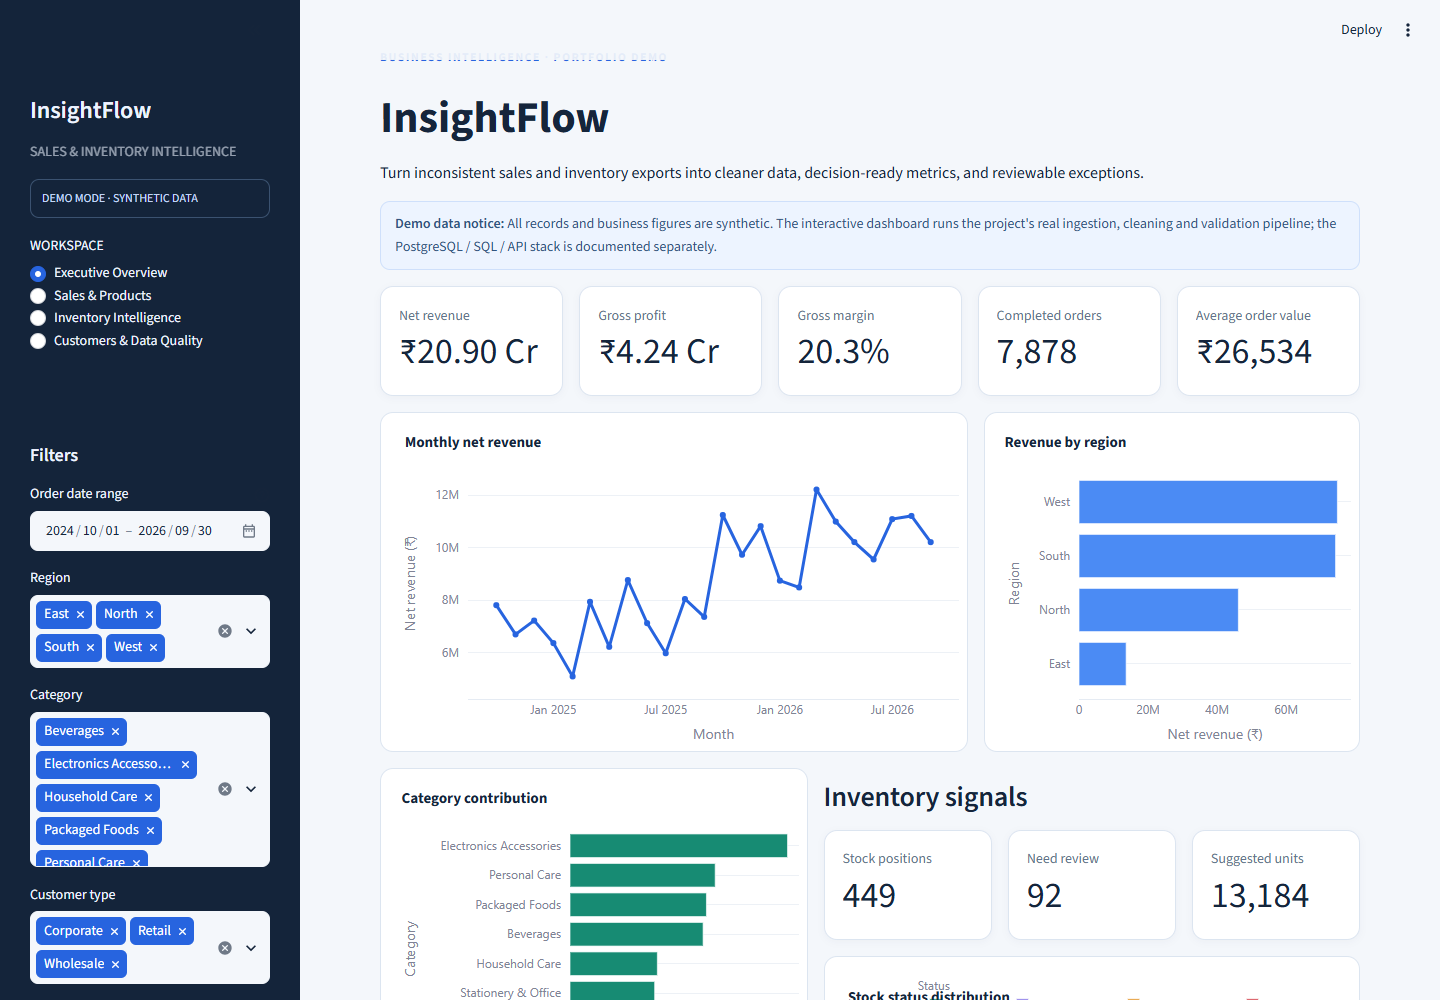
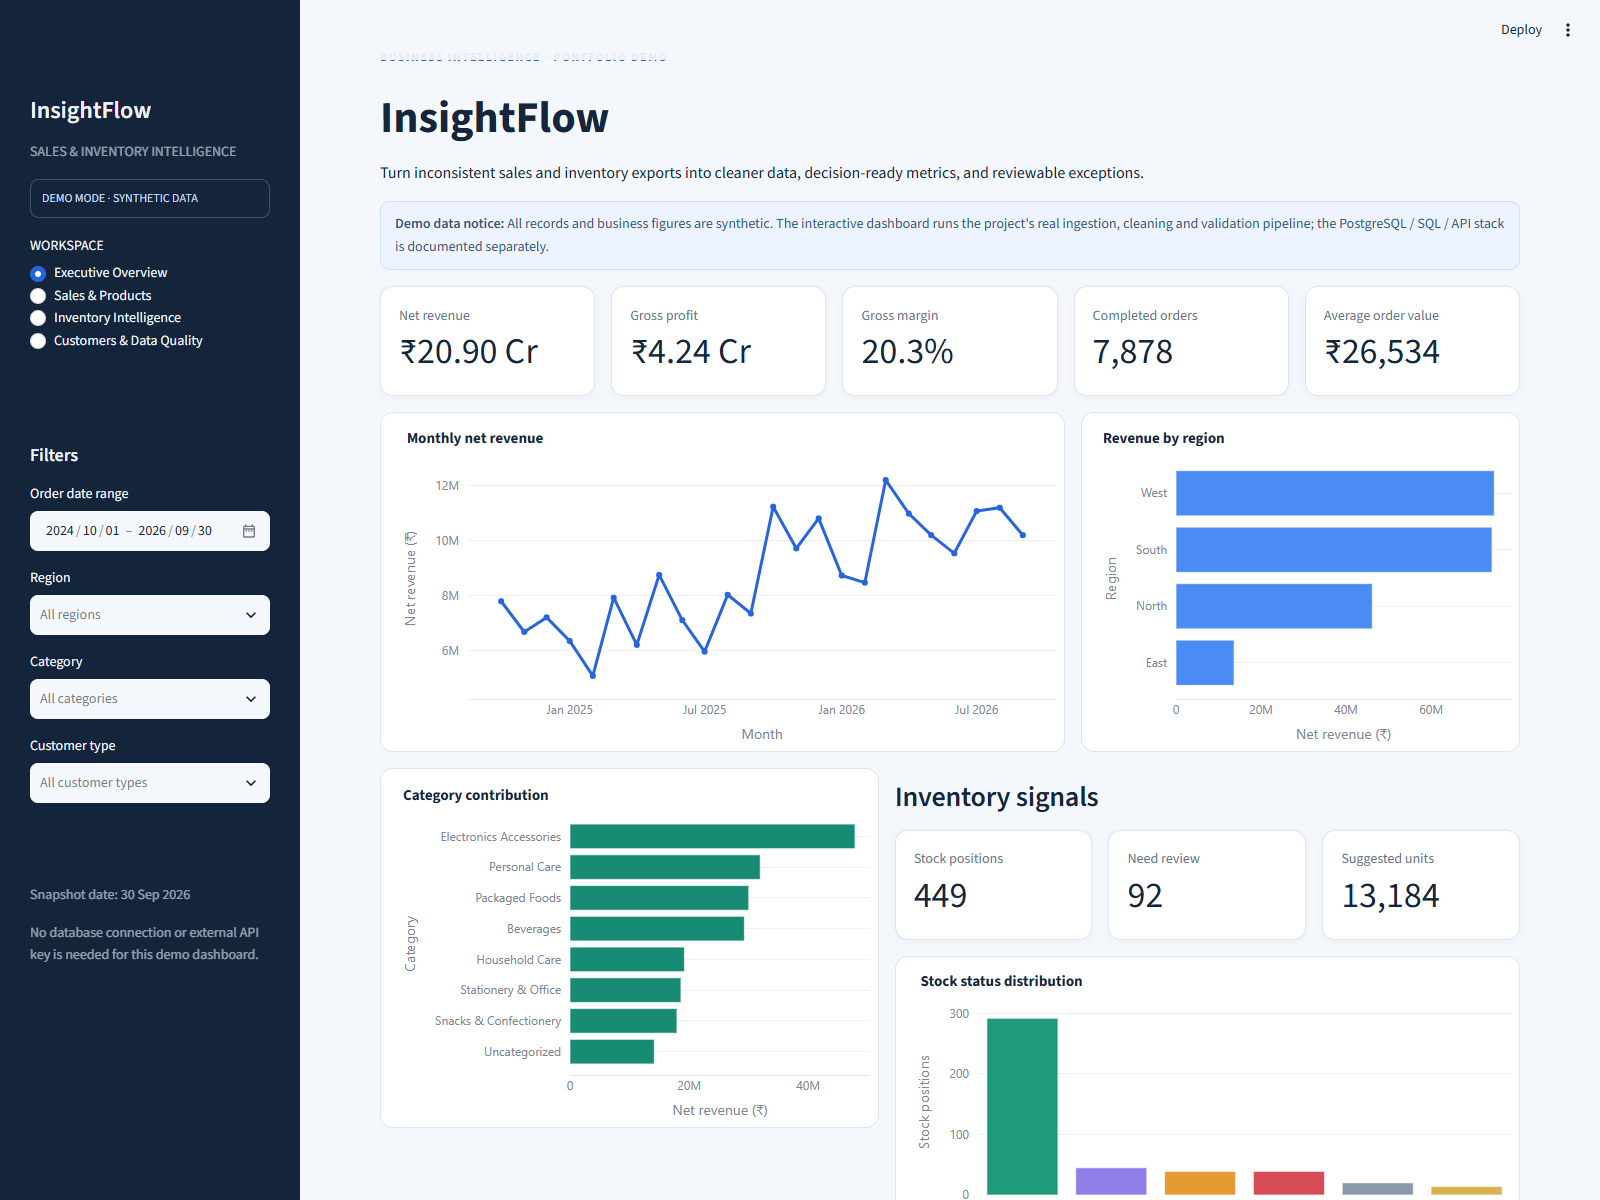
Refine chart layouts, clean default sidebar filters, and recapture runtime screenshots

diff --git a/streamlit_app.py b/streamlit_app.py
@@ -122,24 +122,45 @@ else:
 region_options = sorted(sales["region"].dropna().unique().tolist())
 category_options = sorted(sales["category_name"].dropna().unique().tolist())
 customer_type_options = sorted(sales["customer_type"].dropna().unique().tolist())
-selected_regions = st.sidebar.multiselect("Region", region_options, default=region_options)
-selected_categories = st.sidebar.multiselect("Category", category_options, default=category_options)
+selected_regions = st.sidebar.multiselect(
+    "Region",
+    region_options,
+    default=[],
+    placeholder="All regions",
+    help="Leave empty for all regions.",
+)
+selected_categories = st.sidebar.multiselect(
+    "Category",
+    category_options,
+    default=[],
+    placeholder="All categories",
+    help="Leave empty for all categories.",
+)
 selected_customer_types = st.sidebar.multiselect(
-    "Customer type", customer_type_options, default=customer_type_options
+    "Customer type",
+    customer_type_options,
+    default=[],
+    placeholder="All customer types",
+    help="Leave empty for all customer types.",
 )
 st.sidebar.markdown("---")
 st.sidebar.caption("Snapshot date: 30 Sep 2026")
 st.sidebar.caption("No database connection or external API key is needed for this demo dashboard.")
 
+active_regions = selected_regions if selected_regions else region_options
+active_categories = selected_categories if selected_categories else category_options
+active_customer_types = (
+    selected_customer_types if selected_customer_types else customer_type_options
+)
+
 filtered_sales = sales.loc[
     sales["order_date"].dt.date.between(start_date, end_date)
-    & sales["region"].isin(selected_regions)
-    & sales["category_name"].isin(selected_categories)
-    & sales["customer_type"].isin(selected_customer_types)
+    & sales["region"].isin(active_regions)
+    & sales["category_name"].isin(active_categories)
+    & sales["customer_type"].isin(active_customer_types)
 ].copy()
 filtered_inventory = inventory.loc[
-    inventory["region"].isin(selected_regions)
-    & inventory["category_name"].isin(selected_categories)
+    inventory["region"].isin(active_regions) & inventory["category_name"].isin(active_categories)
 ].copy()
 st.markdown(
     '<div class="if-eyebrow">Business intelligence · portfolio demo</div>',
@@ -172,19 +193,64 @@ def metric_row(frame: pd.DataFrame) -> None:
     cols[4].metric("Average order value", format_inr(summary["average_order_value"]))
 
 
-def style_chart(fig, height: int = 340):
-    fig.update_layout(
+def style_chart(
+    fig,
+    height: int = 340,
+    show_legend: bool = False,
+    legend_position: str = "top-right",
+):
+    layout_update = dict(
         template="plotly_white",
         height=height,
-        margin=dict(l=18, r=18, t=56, b=18),
         paper_bgcolor="rgba(0,0,0,0)",
         plot_bgcolor="#ffffff",
         font=dict(family="Inter, Segoe UI, Arial, sans-serif", color="#24364b", size=12),
-        title=dict(font=dict(size=15, color="#15253b"), x=0.02, xanchor="left"),
-        legend=dict(orientation="h", yanchor="bottom", y=1.01, x=0.02),
+        title=dict(
+            font=dict(size=15, color="#15253b"),
+            x=0.02,
+            xanchor="left",
+            y=0.96,
+            yanchor="top",
+        ),
+        showlegend=show_legend,
     )
-    fig.update_xaxes(showgrid=False, linecolor="#e5ebf3", zeroline=False)
-    fig.update_yaxes(gridcolor="#edf1f6", zeroline=False)
+
+    if not show_legend:
+        layout_update["margin"] = dict(l=18, r=18, t=46, b=18)
+    elif legend_position == "top-right":
+        layout_update["margin"] = dict(l=18, r=18, t=54, b=18)
+        layout_update["legend"] = dict(
+            orientation="h",
+            yanchor="bottom",
+            y=1.02,
+            x=0.98,
+            xanchor="right",
+            title=dict(text=""),
+        )
+    elif legend_position == "bottom":
+        layout_update["margin"] = dict(l=18, r=18, t=46, b=58)
+        layout_update["legend"] = dict(
+            orientation="h",
+            yanchor="top",
+            y=-0.14,
+            x=0.5,
+            xanchor="center",
+            title=dict(text=""),
+        )
+    elif legend_position == "right":
+        layout_update["margin"] = dict(l=18, r=160, t=46, b=18)
+        layout_update["legend"] = dict(
+            orientation="v",
+            yanchor="top",
+            y=0.98,
+            x=1.02,
+            xanchor="left",
+            title=dict(text=""),
+        )
+
+    fig.update_layout(**layout_update)
+    fig.update_xaxes(showgrid=False, linecolor="#e5ebf3", zeroline=False, automargin=True)
+    fig.update_yaxes(gridcolor="#edf1f6", zeroline=False, automargin=True)
     return fig
 
 
@@ -352,7 +418,10 @@ elif page == "Sales & Products":
                 "category_name": "Category",
             },
         )
-        st.plotly_chart(style_chart(fig, 420), use_container_width=True)
+        st.plotly_chart(
+            style_chart(fig, 440, show_legend=True, legend_position="right"),
+            use_container_width=True,
+        )
         display = product.sort_values("net_revenue", ascending=False).rename(
             columns={
                 "product_name": "Product",
@@ -416,7 +485,10 @@ elif page == "Inventory Intelligence":
             },
         )
         fig.update_traces(textposition="inside", textinfo="percent")
-        st.plotly_chart(style_chart(fig, 380), use_container_width=True)
+        st.plotly_chart(
+            style_chart(fig, 400, show_legend=True, legend_position="bottom"),
+            use_container_width=True,
+        )
     with right:
         by_category = (
             filtered_inventory.groupby("category_name", as_index=False)["inventory_value"]
@@ -432,7 +504,7 @@ elif page == "Inventory Intelligence":
             labels={"category_name": "Category", "inventory_value": "Inventory value (₹)"},
             color_discrete_sequence=["#4b8bf4"],
         )
-        st.plotly_chart(style_chart(fig, 380), use_container_width=True)
+        st.plotly_chart(style_chart(fig, 400), use_container_width=True)
     st.subheader("Priority review queue")
     if not needs_action.empty:
         priority = {"Out of stock": 1, "Stock-out risk": 2, "Low stock": 3}
@@ -527,8 +599,16 @@ else:
                 "revenue": "Net revenue (₹)",
                 "customer_type": "Type",
             },
+            color_discrete_map={
+                "Retail": "#2764df",
+                "Wholesale": "#178b73",
+                "Corporate": "#8d7ee8",
+            },
         )
-        st.plotly_chart(style_chart(fig), use_container_width=True)
+        st.plotly_chart(
+            style_chart(fig, show_legend=True, legend_position="top-right"),
+            use_container_width=True,
+        )
     st.subheader("Data quality actions")
     quality_display = quality_log.sort_values("rows_affected", ascending=False).rename(
         columns={

diff --git a/scripts/capture_screenshots.py b/scripts/capture_screenshots.py
@@ -20,21 +20,21 @@ def main():
             executable_path=r"C:\Program Files\Google\Chrome\Application\chrome.exe",
             headless=True,
         )
-        context = browser.new_context(viewport={"width": 1440, "height": 1000})
+        context = browser.new_context(viewport={"width": 1600, "height": 1200})
         page = context.new_page()
 
-        print("Navigating to Streamlit app...")
+        print("Navigating to running Streamlit application...")
         page.goto("http://localhost:8501", timeout=60000)
 
         page.wait_for_selector('[data-testid="stSidebar"]', timeout=60000)
-        time.sleep(4)
+        time.sleep(3)
 
         for page_name, out_path in PAGES:
             print(f"Testing and capturing page: {page_name}")
             radio_item = page.locator(f'[data-testid="stSidebar"] label:has-text("{page_name}")')
             radio_item.click()
 
-            time.sleep(3)
+            time.sleep(2)
             page.wait_for_selector(
                 '[data-testid="stStatusWidget"]', state="detached", timeout=30000
             )
@@ -44,7 +44,7 @@ def main():
             print(f"Saved: {out_path} ({out_path.stat().st_size} bytes)")
 
         browser.close()
-        print("All four pages captured successfully!")
+        print("All four genuine runtime screenshots captured successfully!")
 
 
 if __name__ == "__main__":
